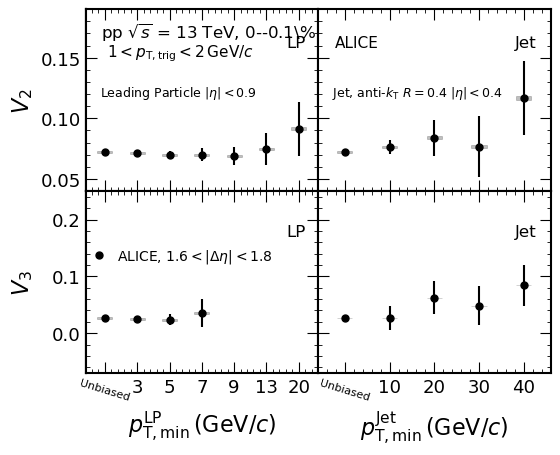
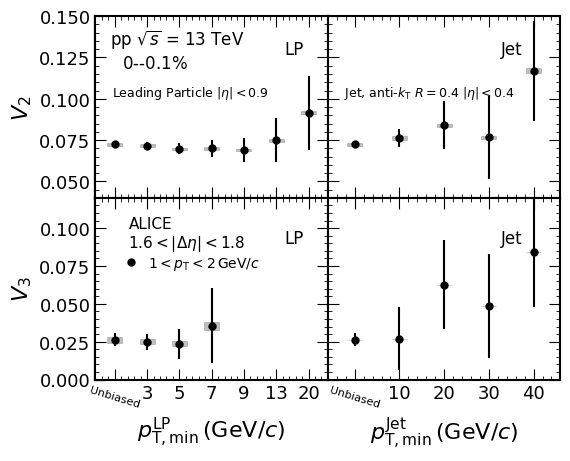
improve the figure from jasper

diff --git a/Fig4_vn_ess.py b/Fig4_vn_ess.py
@@ -29,7 +29,7 @@ ncol = 2;
 xlimits = [
 	[(-0.1,7.1),(-0.1,5.1)],
 	[(-0.1,4.1),(-0.1,5.1)] ];
-ylimits = [(0.04,0.19),(-0.07,0.25)];
+ylimits = [(0.04,0.15),(0.0,0.12)];
 rlimits = [(0.,4.5),(0.,4.5)];
 
 # add here the histogram names for each pad
@@ -52,8 +52,8 @@ xtitle = ["$p^{\\mathrm{LP}}_\\mathrm{T,min}\\,(\\mathrm{GeV}/c)$","$p^{\\mathrm
 ytitle = ["$V_{2}$", "$V_{3}$"];
 
 # Following two must be added
-toptitle = "pp $\\sqrt{s}$ = 13 TeV, 0--0.1\%"; # need to add on the top
-dataDetail = ["$1 < p_\\mathrm{T,trig} < 2\\,\\mathrm{GeV}/c$","$1.6 < |\\Delta\\eta| < 1.8$"];
+toptitle = ["pp $\\sqrt{s}$ = 13 TeV","0--0.1$\%$"]; # need to add on the top
+dataDetail = ["$1 < p_\\mathrm{T} < 2\\,\\mathrm{GeV}/c$","$1.6 < |\\Delta\\eta| < 1.8$"];
 PanelName = ["LP", "Jet"];
 
 plot = JPyPlotRatio.JPyPlotRatio(panels=(nrow,ncol),
@@ -62,7 +62,7 @@ plot = JPyPlotRatio.JPyPlotRatio(panels=(nrow,ncol),
 	panelLabel=plables,  # nrowxncol
 	ratioBounds=rlimits,# for nrow
 	disableRatio=[0,1],
-	panelLabelLoc=(0.06,0.54),panelLabelSize=9,panelLabelAlign="left",
+	panelLabelLoc=(0.07,0.58),panelLabelSize=9,panelLabelAlign="left",
 	legendPanel=2,
 	legendLoc=(0.40,0.64),legendSize=10,xlabel={0:xtitle[0],1:xtitle[1]},
 	ylabel={0:ytitle[0],1:ytitle[1]});
@@ -86,7 +86,7 @@ for iobs in range(0,2):
 			syst = syst[:4];
 			gr = (x,y,yerr);
 
-		data = plot.Add(index,gr,**dataTypePlotParams[0],label="ALICE, $1.6 < |\\Delta\\eta| < 1.8$");
+		data = plot.Add(index,gr,**dataTypePlotParams[0],label=dataDetail[0]);
 		plot.AddSyst(data,syst);
 #			if( iobs==0 ):
 #				grModel = f.Get("{}".format(histnamesModels[iobs][j]));
@@ -102,14 +102,15 @@ for iobs in range(0,2):
 
 
 #'''
-plot.GetPlot().text(0.15,0.82,toptitle,fontsize=12);
-plot.GetPlot().text(0.16,0.78,dataDetail[0],fontsize=11);
-#	plot.GetPlot().text(0.14,0.60,dataDetail[1],fontsize=10);
-plot.GetPlot().text(0.46,0.80,PanelName[0],fontsize=12);
-plot.GetPlot().text(0.84,0.80,PanelName[1],fontsize=12);
-plot.GetPlot().text(0.46,0.40,PanelName[0],fontsize=12);
-plot.GetPlot().text(0.84,0.40,PanelName[1],fontsize=12);
-plot.GetPlot().text(0.54,0.80,"ALICE",fontsize=11);
+plot.GetPlot().text(0.15,0.82,toptitle[0],fontsize=12);
+plot.GetPlot().text(0.17,0.77,toptitle[1],fontsize=12);
+#plot.GetPlot().text(0.16,0.78,dataDetail[0],fontsize=11);
+plot.GetPlot().text(0.18,0.39,dataDetail[1],fontsize=11);
+plot.GetPlot().text(0.44,0.80,PanelName[0],fontsize=12);
+plot.GetPlot().text(0.80,0.80,PanelName[1],fontsize=12);
+plot.GetPlot().text(0.44,0.40,PanelName[0],fontsize=12);
+plot.GetPlot().text(0.80,0.40,PanelName[1],fontsize=12);
+plot.GetPlot().text(0.18,0.43,"ALICE",fontsize=11);
 
 # this is need because of the input histo label setting..
 #if( iobs==0 ):
